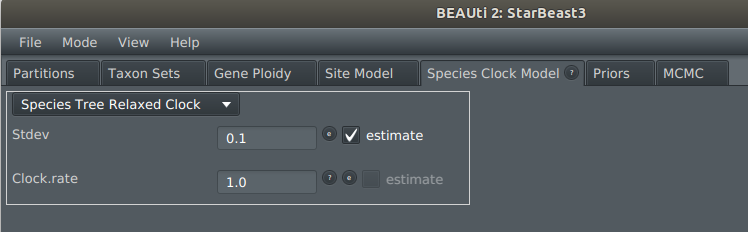
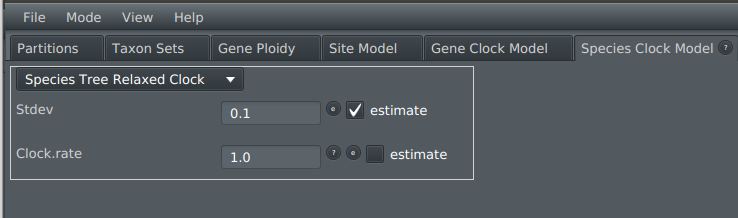
version 1.1.2: gene clock model tab in beauti

diff --git a/README.md b/README.md
@@ -37,7 +37,11 @@ This tutorial is based on the Gopher example data by [Belfiore et al. 2008](http
 
 ![Setting the gene tree site models](tutorial/Fig2.png)
 
-6. Select a clock model using the `Clock Model` tab. 
+6. The clock rate for each gene tree can be estimated or fixed using the `Gene Clock Model` tab. By default, all gene clock rates are estimated and are drawn from a Log-Normal prior. If there are a small number of loci, it may be preferrable to leave one of these fixed at 1.0. Note that these gene clock rates are relative to the clock rate definied in the  `Species Clock Model` tab, and thus should be sampled from a prior with a mean of 1.
+
+![Setting the gene tree clock models](tutorial/Fig2b.png)
+
+7. Select a clock model using the `Species Clock Model` tab. 
 
 --  **Species Tree Strict Clock**: Every branch in the species tree has the same substitution rate. 
 
@@ -45,13 +49,13 @@ This tutorial is based on the Gopher example data by [Belfiore et al. 2008](http
 --  **Species Tree Relaxed Clock**: Each species tree branch has an independent and identically distributed substitution rate with a LogNormal(mean = 1, logSD = Stddev) distribution, where Stddev is estimated (denoted by &sigma; in StarBeast3 manuscript). The substitution rates of each gene tree branch are from the species tree. The mean branch rate is fixed at 1 so that it does not interfere with tree height estimation.
 
 
-The species tree `Clock.rate` can also be estimated (`Mode => uncheck Automatic set clock rate`), but this is not recommended unless time calibration data is available. If you estimate the `Clock.rate` (denoted by &mu; in the StarBeast3 article), you should also change its default 1/X prior to an informed prior (such as a Log-Normal distribution centered around an informed estimate). If the clock rate is left as default, then the tree heights will be in units of substitutions per site. If the clock rate is estimated, then the clock rate should be in units of substitutions per site per units of time, so that the tree heights are in units of time (eg. millions of years). 
+The species tree `Clock.rate` can also be estimated (Ensure that `Mode => Automatic set clock rate` is unchecked), but this is not recommended unless time calibration data is available. If you estimate the `Clock.rate` (denoted by &mu; in the StarBeast3 article), you should also change its default 1/X prior to an informed prior (such as a Log-Normal distribution centered around an informed estimate). If the clock rate is left as default, then the tree heights will be in units of substitutions per site. If the clock rate is estimated, then the clock rate should be in units of substitutions per site per units of time, so that the tree heights are in units of time (eg. millions of years). 
 
 
 
 ![Selecting a species tree clock model](tutorial/Fig3.png)
 
-7. Other priors, including the species tree prior, can be configured using the `Priors` tab. The following species tree priors are included:
+8. Other priors, including the species tree prior, can be configured using the `Priors` tab. The following species tree priors are included:
 
 
 -- **Yule Model**. A model which describes the branching process of species, i.e.  speciation, or births . Estimated parameters: speciationRate (the rate of one species diversifying into two).
@@ -69,16 +73,16 @@ This model assumes that the birth rate is greater than the death rate, and there
 
 Additionally, `popMean` is the mean effective population size (denoted by &mu;N in the StarBeast3 article), and the `clockRates` are the relative subsitution rate of each gene tree. By default, these are log-normal distributions with a small variance and a mean of 1, to avoid interference with tree height estimation, and the clock rate of the first partition is fixed at 1. 
 
-8. Save the XML template using `File/Save`
+9. Save the XML template using `File/Save`
 
-9. Run BEAST on the saved XML file using
+10. Run BEAST on the saved XML file using
         ```beast/bin/beast -threads N starbeast3.xml```
 where `N` is the number of threads allocated to the parallel gene tree operator (default 1). The gene trees are partitioned into `N` threads and operated on independently.
 
-10. MCMC convergence can be measured using Tracer (see [https://www.beast2.org/tracer-2/](https://www.beast2.org/tracer-2/)).
+11. MCMC convergence can be measured using Tracer (see [https://www.beast2.org/tracer-2/](https://www.beast2.org/tracer-2/)).
 
 
-11. The MSC model (including the species tree, gene trees, effective population sizes, and branch rates) can be visualised using UglyTrees (see [https://uglytrees.nz/](https://uglytrees.nz/)).
+12. The MSC model (including the species tree, gene trees, effective population sizes, and branch rates) can be visualised using UglyTrees (see [https://uglytrees.nz/](https://uglytrees.nz/)).
 
 
 ![MSC model viewed using UglyTrees](tutorial/Fig4.png)
@@ -102,7 +106,7 @@ From a performance perspective, we therefore recommend the user only link (site 
 
 
 ### Clock model
-By default, each gene tree is associated with its own clock rate, and these rates have a prior distribution with a mean of 1 (except for the first partition which is fixed at 1). The substitution rate of a branch in a gene tree is equal to its clock rate multiplied by the clock rate of the species tree (configured in the "Clock Model" tab). This model works quite well and accounts for different genetic loci being exposed to unique selective pressures. When there are many genes trees, the clock rate estimates average out to ~1.0, and therefore are able to be estimated without affecting the estimated species tree height. 
+By default, each gene tree is associated with its own relative clock rate, and these rates have a prior distribution with a mean of 1. The substitution rate of a branch in a gene tree is equal to its clock rate multiplied by the clock rate of the species tree (configured in the "Clock Model" tab). This model works quite well and accounts for different genetic loci being exposed to unique selective pressures. When there are many genes trees, the clock rate estimates average out to ~1.0, and therefore are able to be estimated without affecting the estimated species tree height. 
 
 If gene tree clock models are linked, then they will share their clock rate. However, as discussed above, excessive linking can hamper parallelisation performance and lead to slightly longer convergence times.
 
